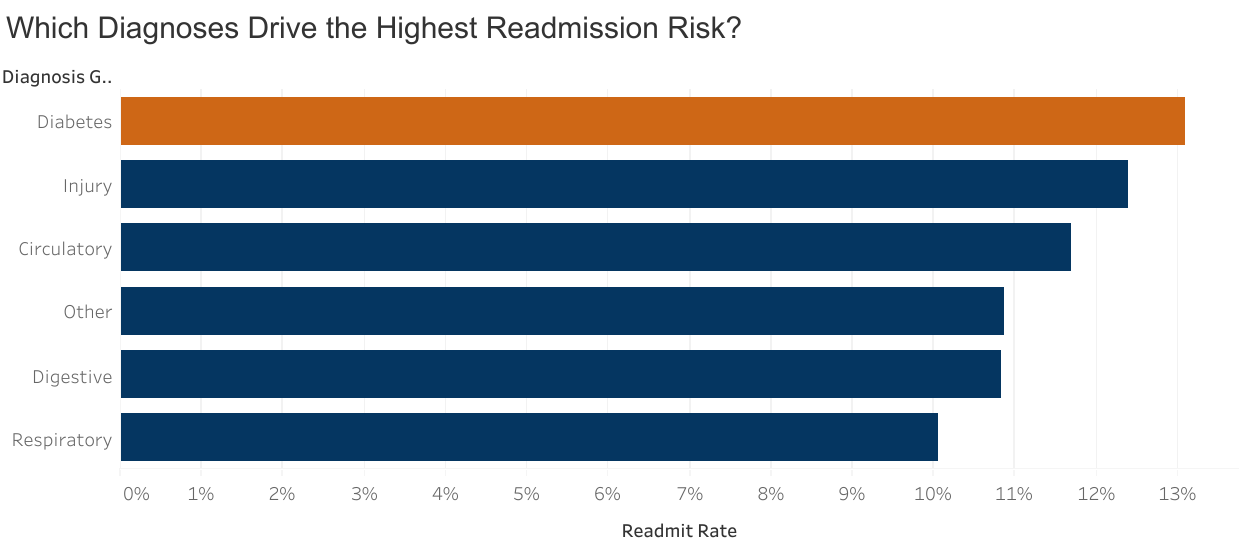
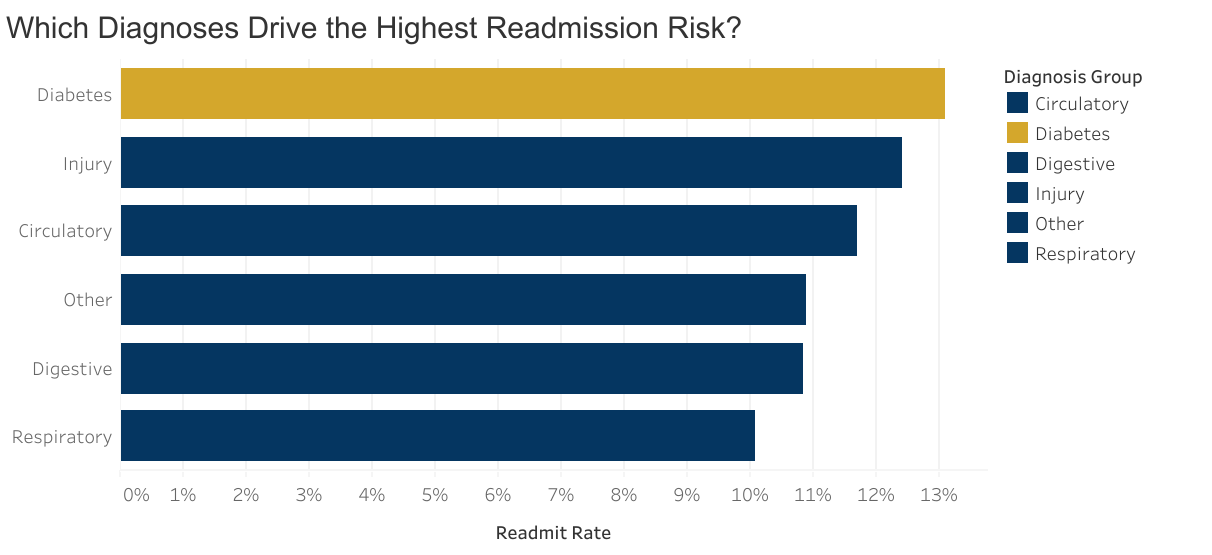
Updated README

diff --git a/README.md b/README.md
@@ -69,7 +69,7 @@ Top Performing Specialty: Cardiology (Maintained rates significantly below the h
 [View on Tableau Public](https://public.tableau.com/app/profile/greg.washam/viz/DiabetesDataAnalysis_17775820265220/HospitalReadmissionAnalysisIdentifyingHigh-RiskFactorsforDiabeticPatients_)
 
 ## 📸 Dashboard Preview
-![Dashboard Preview](visualizations/Hospital Readmission Analysis_ Identifying High-Risk Factors for Diabetic Patients..png)
+![Dashboard Preview](visualizations/diabetes-dashboard-main%20(2).png)
 
 ## 🔍 Detailed Insights
 
